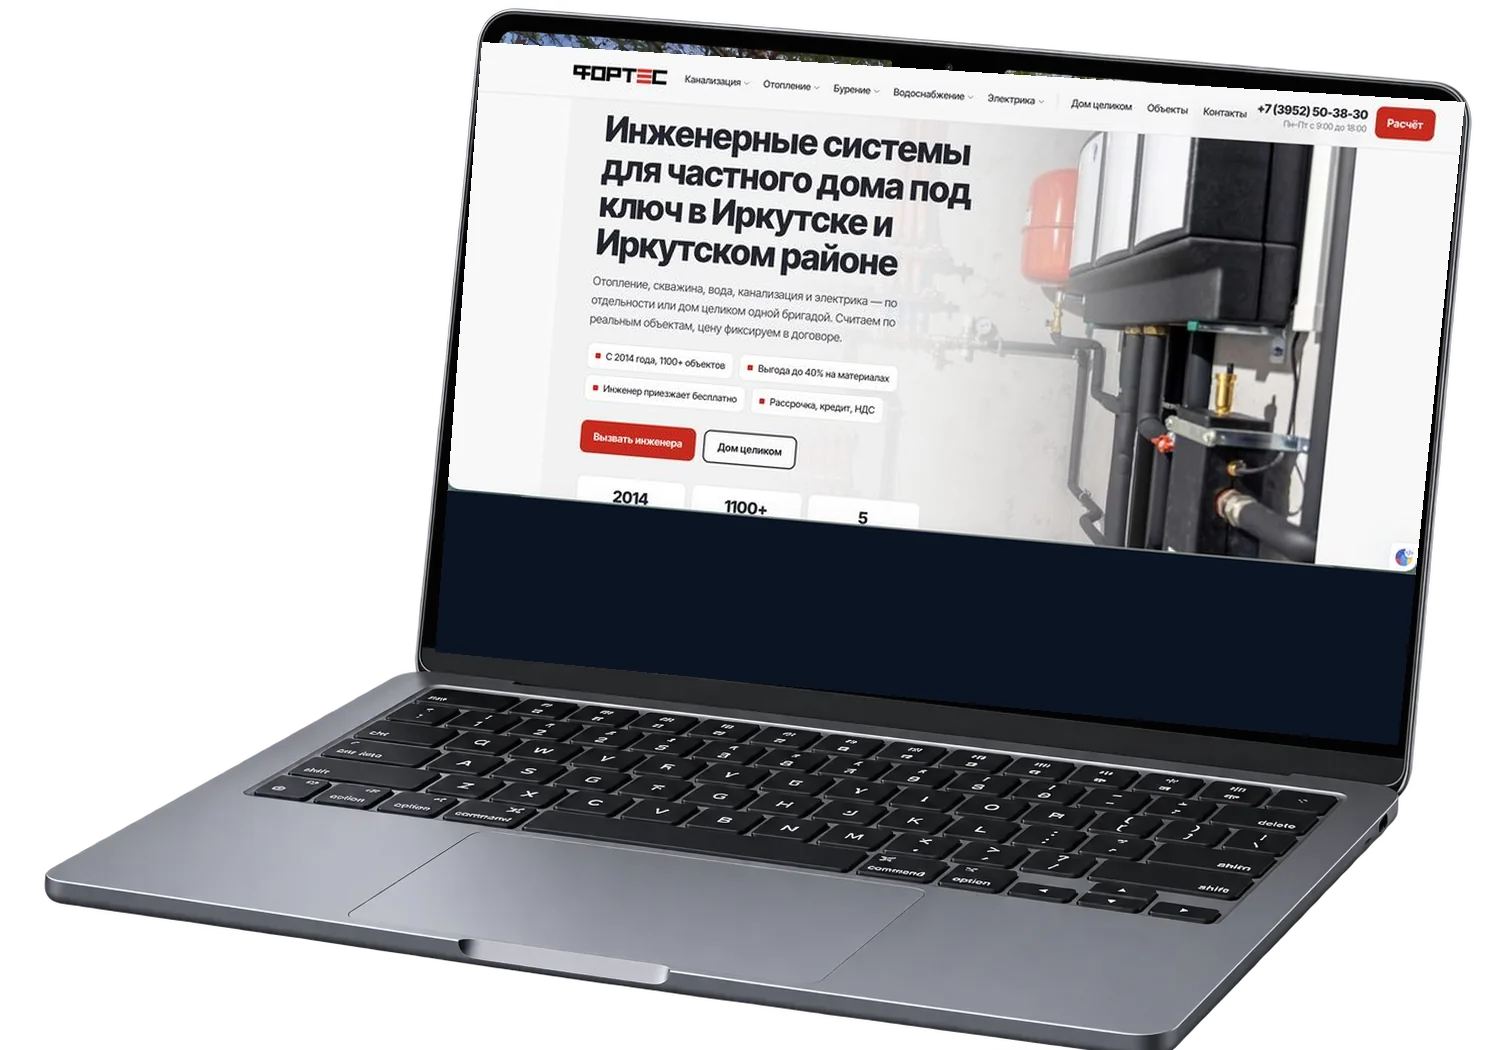
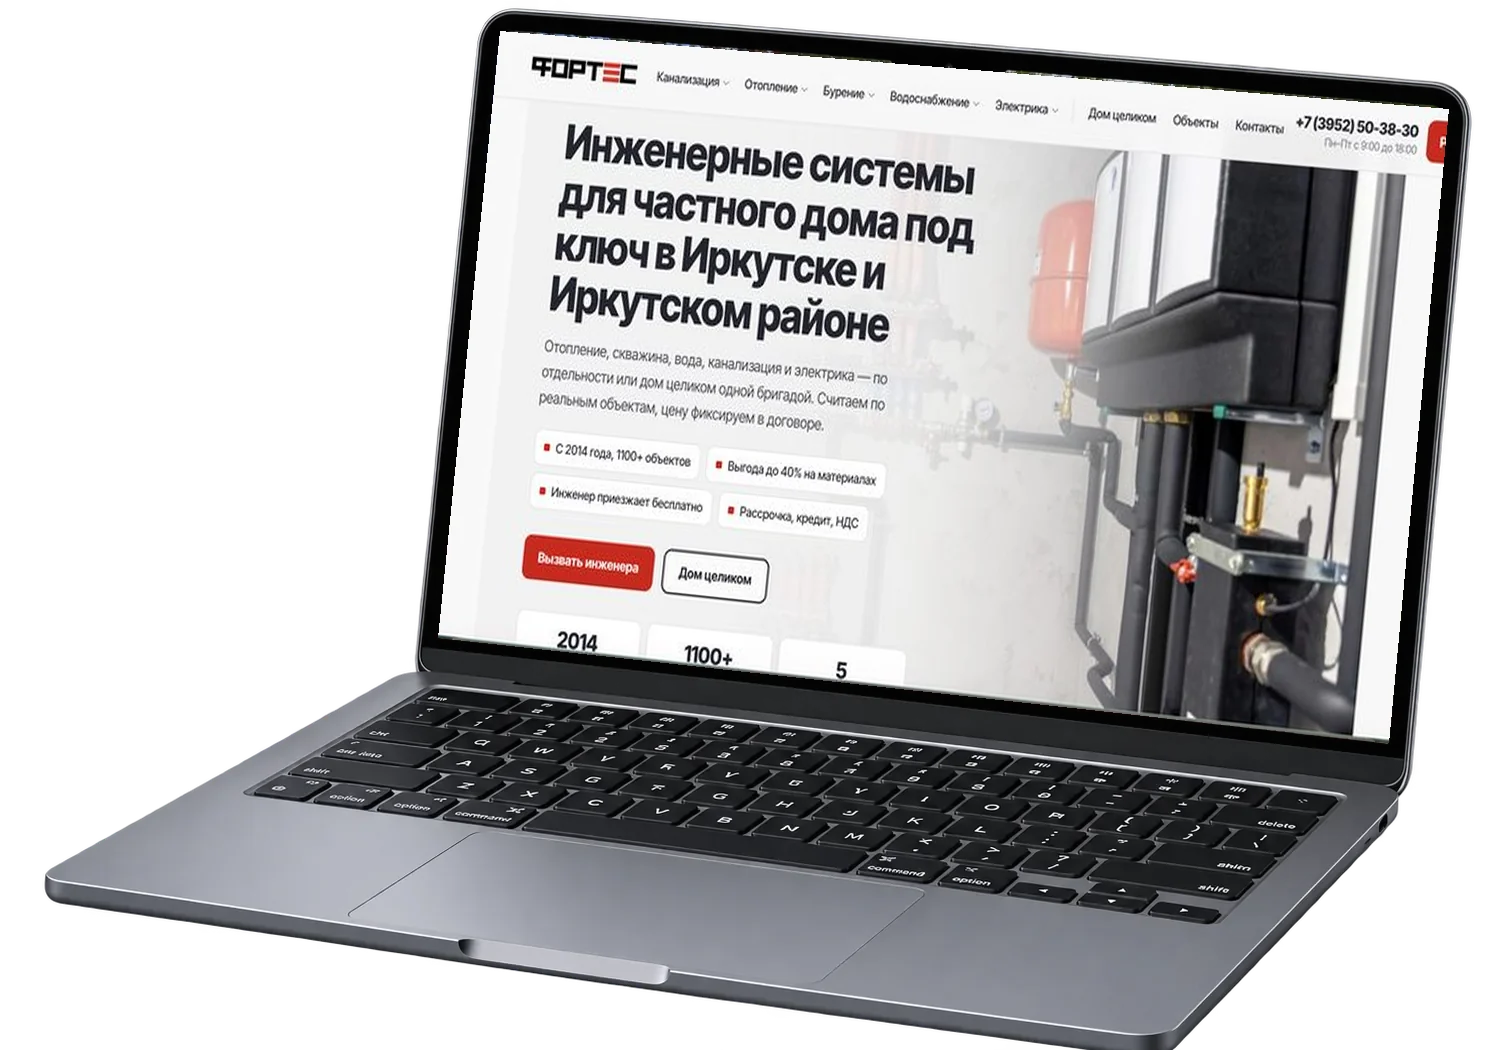
Ноутбуки: точные углы экрана; MAX в контактах; подробные кейсы БиТиСи и Патриот
Claude-Session: https://claude.ai/code/session_01FpcLRrMQdhJCE9pUHux9xG

Changed region(s): [[0.2764, 0.0305, 0.9826, 0.7314]]

diff --git a/scripts/laptop.py b/scripts/laptop.py
@@ -6,8 +6,8 @@ import sys, numpy as np
 from PIL import Image
 
 MOCK = 'public/img/hero-laptop.webp'
-# углы экрана на мокапе 1498×1050: TL, TR, BR, BL (подобраны по сетке)
-QUAD = [(482, 42), (1465, 102), (1398, 745), (435, 652)]
+# углы экрана на мокапе 1498×1050: TL, TR, BR, BL (найдены по краю чёрной рамки)
+QUAD = [(500, 31), (1449, 109), (1389, 743), (438, 638)]
 
 def coeffs(src, dst):
     A = []
